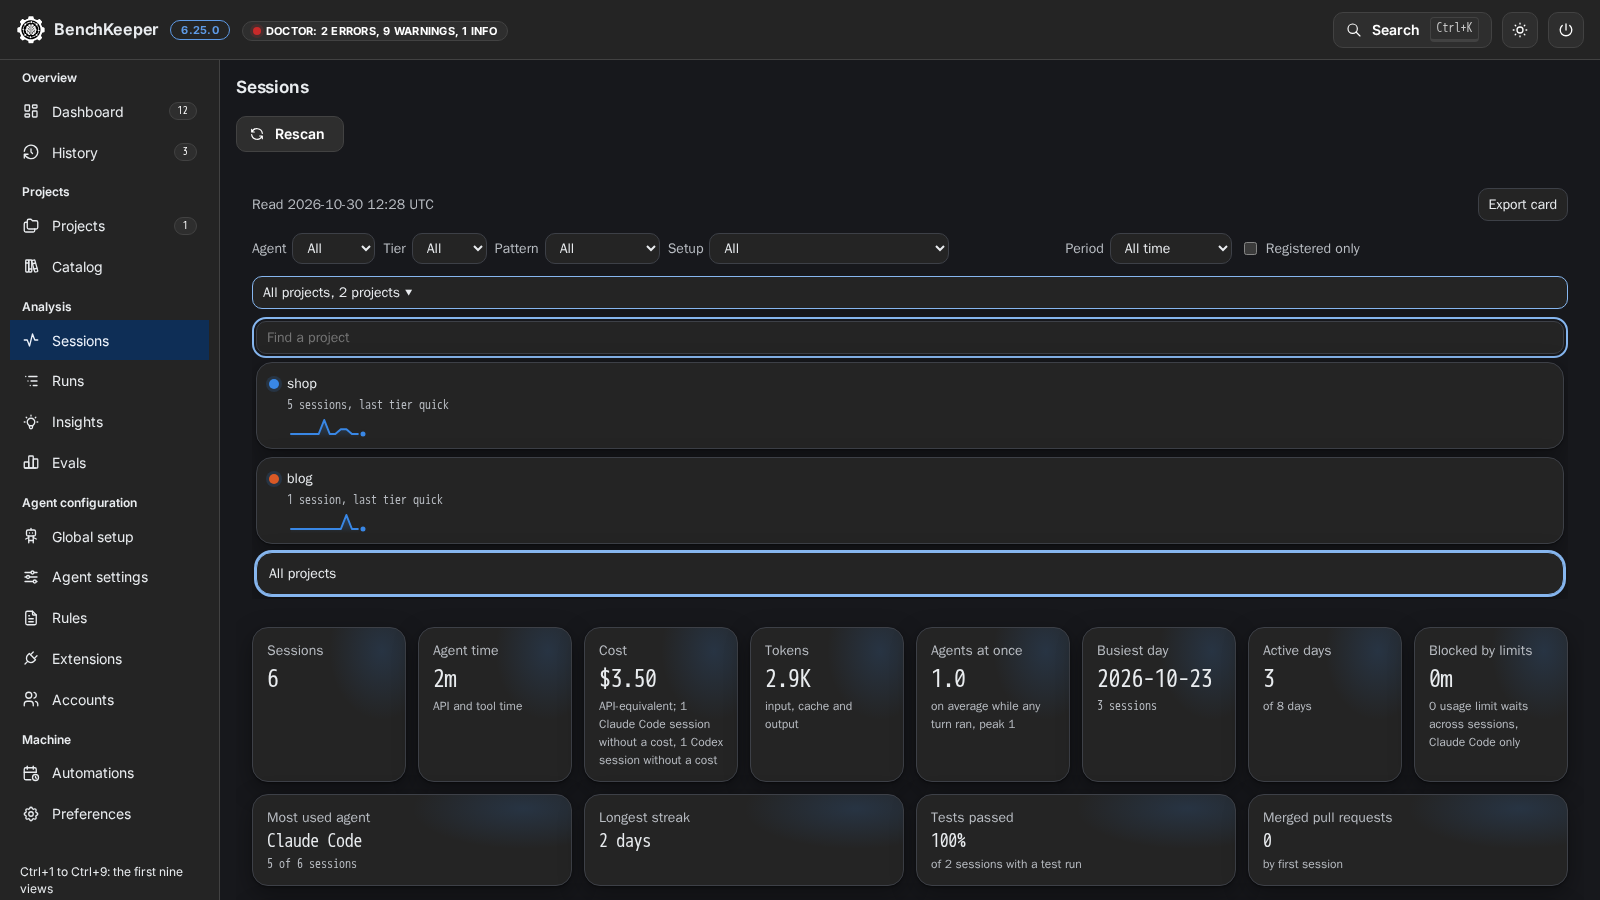
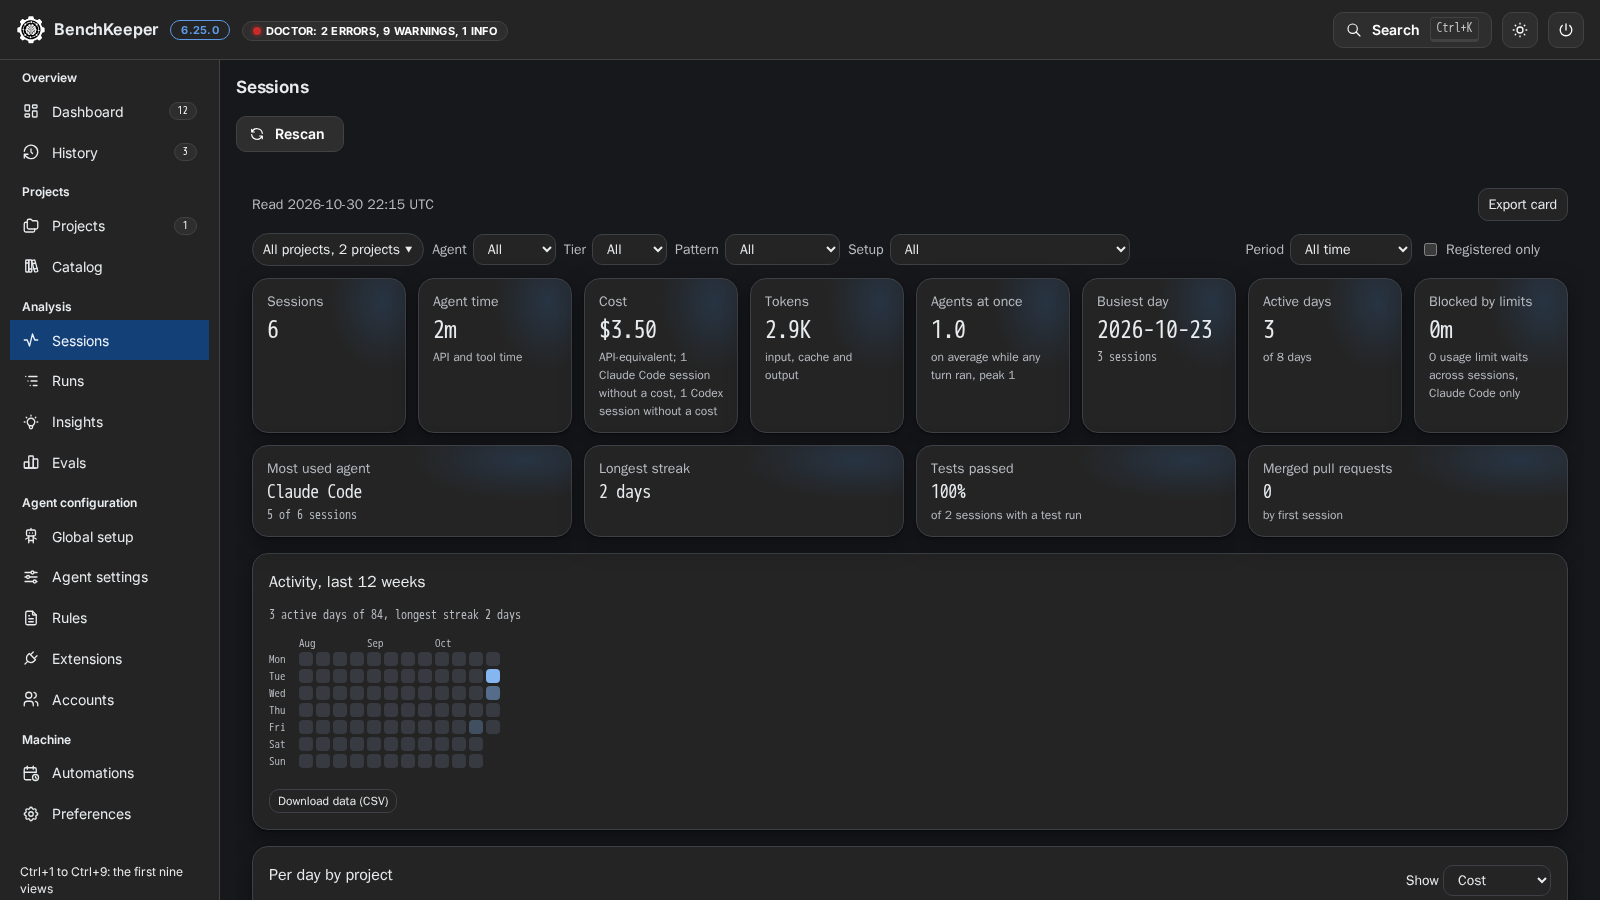
feat(app): put the Sessions project choice in the filter line (#821)
* feat(app): put the Sessions project choice in the filter line

In the app's frame the project choice is a closed chip at the head of
the filter line, so the quick facts follow the filters directly. It
opens the same list below the line and filters as before. The
screenshot of the view shows this default state.

Refs #803

* chore: add 390 px pictures of the Sessions view for the review

Refs #803

* chore: remove the review pictures

Refs #803

* fix(app): keep a long chosen project inside the frame

The chip wraps a long project name instead of widening the frame at phone width.

Refs #803

diff --git a/web/src/components/AppPage.tsx b/web/src/components/AppPage.tsx
@@ -72,7 +72,7 @@ export const VIEWS: { id: string; view: string; title: string; shot: string; alt
   },
   {
     id: 'sessions', view: 'sessions', title: 'Sessions board', shot: 'sessions',
-    alt: 'The Sessions view with the board in a frame: filters for agent, tier, pattern, setup and period, the project list open with its search, then tiles for sessions, agent time, cost, tokens, tests passed and merged pull requests.',
+    alt: 'The Sessions view with the board in a frame: the project choice closed as a chip in one line with the filters for agent, tier, pattern, setup and period, then tiles for sessions, agent time, cost, tokens, tests passed and merged pull requests.',
     text: [
       'The board reads the Claude Code and Codex transcripts on the machine when it opens and on Rescan: per session the tier, the pattern (single, loop, group or Orca worker), the setup installed at the time, skills used, last test run, cost (Claude Code), time and pull request state.',
       'The project list puts registered repositories first, one entry per repository with its worktrees folded in, and has a search. Comparison charts by tier, pattern and setup show how many sessions each bar rests on and mark the ones under 20. Each chart has its table behind a button.',
